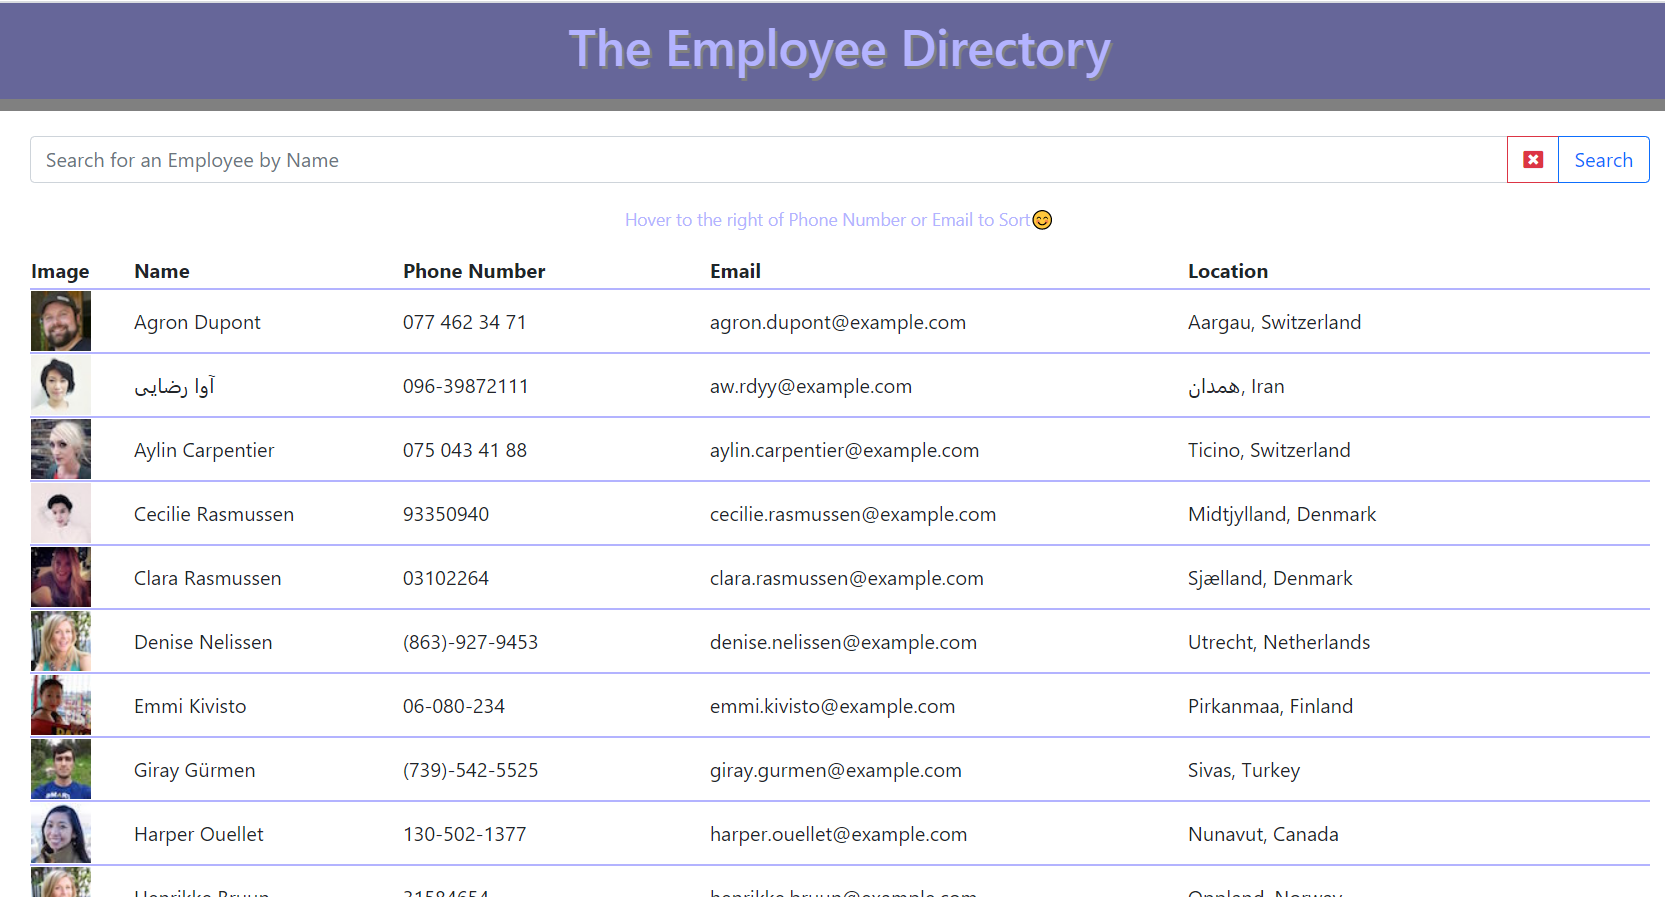
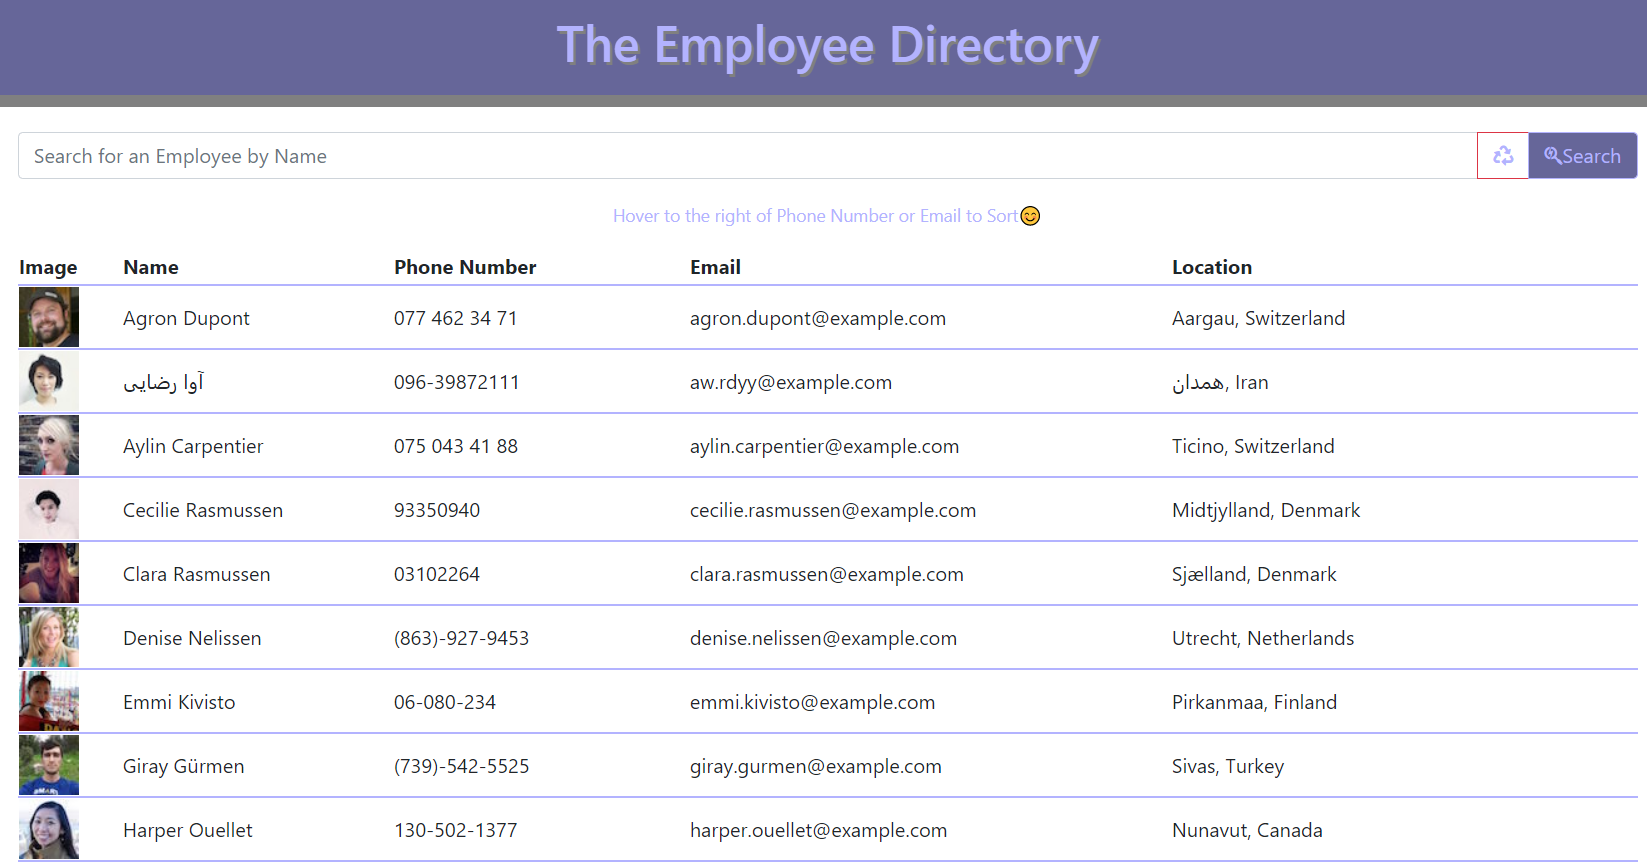
styles

diff --git a/src/components/Main.js b/src/components/Main.js
@@ -71,10 +71,10 @@ function Main() {
     return (
         <div className="container" style={{ marginTop: "20px", marginBottom: "20px" }}>
             <div className="input-group mb-3 float-center">
-                <input value={search} onChange={handleInputChange} type="text" className="form-control" placeholder="Search for an Employee by Name" aria-label="Username" aria-describedby="button-addon2" />
-                <button className="btn btn-outline-danger" onClick={clearSearch}><i class="fas fa-window-close"></i>
+                <input value={search} onChange={handleInputChange} type="text" className="form-control" placeholder="Search for an Employee by Name" aria-label="Username" aria-describedby="button-addon" />
+                <button className="btn btn-outline-danger" onClick={clearSearch}><i class="fas fa-recycle"></i>
                 </button>
-                <button onClick={handleFormSubmit} className="btn btn-outline-primary" type="submit" id="button-addon2">Search
+                <button onClick={handleFormSubmit} className="btn btn-outline-primary" type="submit" id="button-addon"><i class="fab fa-searchengin"></i>Search
             </button>
             </div>
             <div style={{ display: "flex", justifyContent: "center", margin: "auto", color: "#b3b3ff" }}>

diff --git a/src/components/Table.js b/src/components/Table.js
@@ -7,8 +7,8 @@ function Table(props) {
                 <tr>
                     <th>Image</th>
                     <th>Name</th>
-                    <th>Phone Number <button className='filter' onClick={props.sortNumber}><i className='fas fa-filter'></i></button></th>
-                    <th>Email <button className='filter' onClick={props.sortEmail}><i className='fas fa-filter'></i></button></th>
+                    <th>Phone Number <button className='filter' onClick={props.sortNumber}><i class="fas fa-sort"></i></button></th>
+                    <th>Email <button className='filter' onClick={props.sortEmail}><i class="fas fa-sort"></i></button></th>
                     <th>Location</th>
                 </tr>
             </thead>

diff --git a/src/components/style.css b/src/components/style.css
@@ -43,3 +43,28 @@ footer{
     display: flex;
     justify-content: space-around;
 }
+
+.btn-check:active+.btn-outline-primary, 
+.btn-check:checked+.btn-outline-primary, 
+.btn-outline-primary.active, 
+.btn-outline-primary.dropdown-toggle.show, 
+.btn-outline-primary:active{
+    color: #fff;
+    background-color: #666699;
+    border-color: #b3b3ff;
+}
+
+.btn-outline-primary {
+    color: #666699;
+    border-color:#b3b3ff;
+    background-color: #666699;
+}
+
+
+
+.input-group>:not(:first-child):not(.dropdown-menu):not(.valid-tooltip):not(.valid-feedback):not(.invalid-tooltip):not(.invalid-feedback) {
+    margin-left: -1px;
+    border-top-left-radius: 0;
+    border-bottom-left-radius: 0;
+    color:#b3b3ff;
+}
